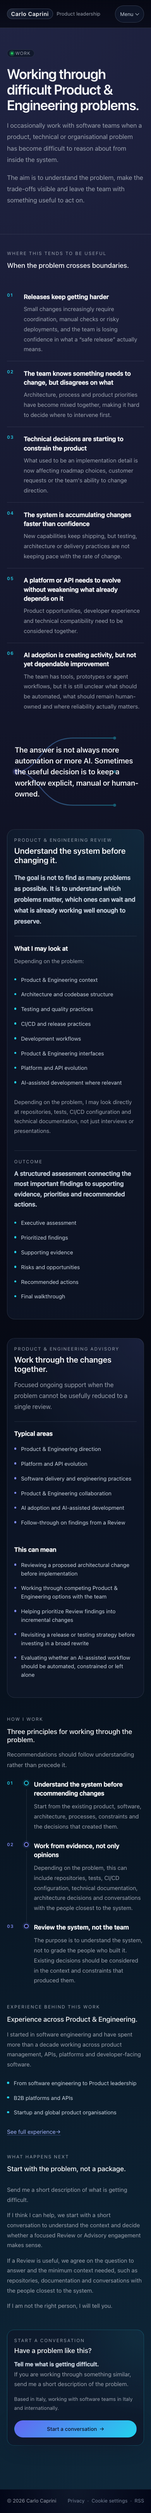
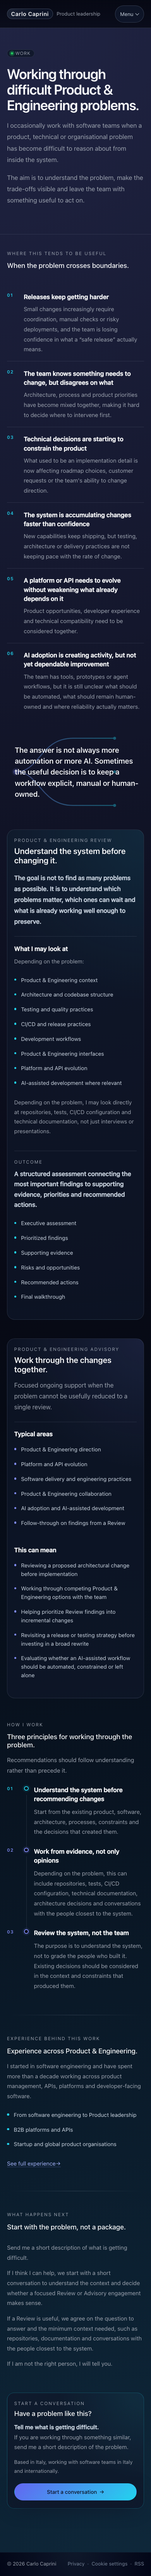
refine: add breathing room to Work closing sections

Changed region(s): [[0.0308, 0.0, 0.9538, 0.9653]]

diff --git a/_includes/styles/work.css b/_includes/styles/work.css
@@ -26,6 +26,41 @@
   margin-top: 0.75rem;
 }
 
+.work-principles-section {
+  padding-top: 0.8rem;
+}
+
+.work-evidence-section,
+.work-next-section {
+  position: relative;
+  padding-top: 3.4rem;
+}
+
+.work-evidence-section::before,
+.work-next-section::before {
+  position: absolute;
+  top: 0;
+  left: 50%;
+  width: calc(100% - 3rem);
+  max-width: 720px;
+  height: 1px;
+  background: linear-gradient(
+    to right,
+    transparent,
+    rgba(148, 163, 184, 0.28),
+    transparent
+  );
+  content: "";
+  pointer-events: none;
+  transform: translateX(-50%);
+}
+
+.work-principles-section,
+.work-evidence-section,
+.work-next-section {
+  margin-bottom: 3.8rem;
+}
+
 .work-situation-list {
   display: grid;
   grid-template-columns: repeat(2, minmax(0, 1fr));
